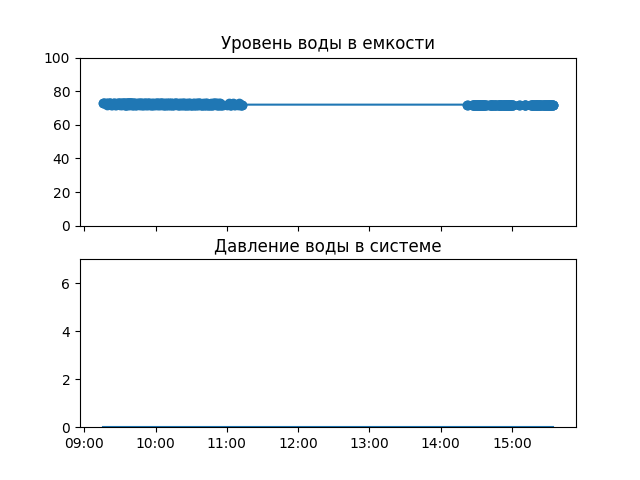
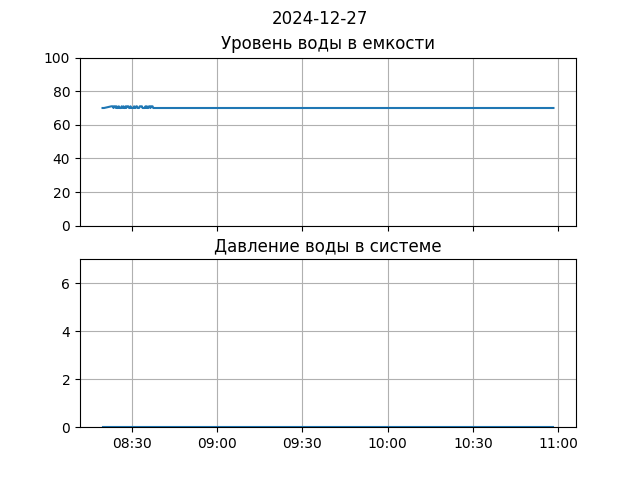
допилен базовый функционал

diff --git a/handlers.py b/handlers.py
@@ -1,13 +1,14 @@
 from datetime import date, datetime, timedelta
 
 from aiogram.types import CallbackQuery, Message
-from aiogram_dialog import ChatEvent, DialogManager
+from aiogram_dialog import DialogManager
 from aiogram_dialog.widgets.kbd import ManagedCalendar
 from sqlalchemy import func, select
 from sqlalchemy.ext.asyncio.session import AsyncSession
 
 from config import settings
 from db.models import Pressure, PumpCondition, User, WaterLevel
+from db.repo import get_by_date, get_last
 from service.plots import plot_archive_levels, plot_current_level
 from states import MainSG
 
@@ -24,18 +25,15 @@ async def check_passwd(msg: Message, msg_inpt, manager: DialogManager):
 
 async def on_current_level(callback: CallbackQuery, button, manager: DialogManager):
     session: AsyncSession = manager.middleware_data["session"]
-    query = select(WaterLevel).order_by(WaterLevel.id.desc()).limit(1)
-    curr_level = await session.scalar(query)
+    curr_level = await get_last(session, [WaterLevel])
+    curr_level = curr_level[0]
 
     if not curr_level or curr_level.dttm < datetime.now() - timedelta(minutes=5):
         await callback.answer("Нет свежих данных", show_alert=True)
         return
 
     if 100 >= curr_level.value >= 0:
-        query = select(PumpCondition).order_by(PumpCondition.id.desc()).limit(1)
-        pump_condition = await session.scalar(query)
-        query = select(Pressure).order_by(Pressure.id.desc()).limit(1)
-        pressure = await session.scalar(query)
+        pump_condition, pressure = await get_last(session, [PumpCondition, Pressure])
 
         plot_current_level(
             level=curr_level.value,
@@ -55,16 +53,10 @@ async def on_date_clicked(
     /,
 ):
     session: AsyncSession = manager.middleware_data["session"]
-    query = select(WaterLevel).where(func.date(WaterLevel.dttm) == clicked_date.isoformat())
-    levels = await session.scalars(query)
-    levels = levels.all()
-    query = select(Pressure).where(func.date(Pressure.dttm) == clicked_date.isoformat())
-    pressures = await session.scalars(query)
-    pressures = pressures.all()
+    levels, pressures = await get_by_date(session, clicked_date, [WaterLevel, Pressure])
 
     if levels or pressures:
         plot_archive_levels(levels, pressures, clicked_date)
         await manager.switch_to(MainSG.archive)
     else:
-        await callback.answer('Данных нет', show_alert=True)
-    
+        await callback.answer("Данных нет", show_alert=True)

diff --git a/custom/babel_calendar.py b/custom/babel_calendar.py
@@ -13,54 +13,6 @@ from aiogram_dialog.widgets.kbd.calendar_kbd import (
 from aiogram_dialog.widgets.text import Format, Text
 from babel.dates import get_day_names, get_month_names
 
-# class RuWeekDay(Text):
-#     def __init__(self, locale):
-#         super().__init__()
-#         self.locale = locale
-
-#     async def _render_text(self, data, manager: DialogManager) -> str:
-#         selected_date: date = data["date"]
-#         return get_day_names(width="short", context="stand-alone", locale=self.locale)[
-#             selected_date.weekday()
-#         ].title()
-
-
-# class RuMonth(Text):
-#     def __init__(self, locale):
-#         super().__init__()
-#         self.locale = locale
-
-#     async def _render_text(self, data, manager: DialogManager) -> str:
-#         selected_date: date = data["date"]
-#         # print("month", selected_date.month)
-#         return get_month_names("wide", context="stand-alone", locale=self.locale)[
-#             selected_date.month
-#         ].title()
-
-
-# class CustomCalendar(Calendar):
-#     def _init_views(self) -> Dict[CalendarScope, CalendarScopeView]:
-#         return {
-#             CalendarScope.DAYS: CalendarDaysView(
-#                 self._item_callback_data,
-#                 self.config,
-#                 header_text=RuMonth("ru_RU"),
-#                 weekday_text=RuWeekDay("ru_RU"),
-#                 next_month_text=RuMonth("ru_RU") + " >>",
-#                 prev_month_text="<< " + RuMonth("ru_RU"),
-#             ),
-#             CalendarScope.MONTHS: CalendarMonthView(
-#                 self._item_callback_data,
-#                 self.config,
-#                 month_text=RuMonth("ru_RU"),
-#                 this_month_text="[" + RuMonth("ru_RU") + "]",
-#             ),
-#             CalendarScope.YEARS: CalendarYearsView(
-#                 self._item_callback_data,
-#                 self.config,
-#             ),
-#         }
-
 
 SELECTED_DAYS_KEY = "selected_dates"
 

diff --git a/service/plots.py b/service/plots.py
@@ -26,12 +26,12 @@ def plot_current_level(level: int | float, pump: int, pressure: float):
         axes.add_patch(water)
 
     def top_text(axes: Axes, pump: int):
-        s = ""
-        match pump:
-            case 1:
-                s = "работает насос!"
-            case 3:
-                s = "низкое давление!"
+        if not pump:
+            return
+
+        s = "работает насос!"
+        if pump > 1:
+            s += "\nнизкое давление!"
         axes.text(100, 150, s, fontsize=30, color="red")
 
     plt.clf()
@@ -56,17 +56,21 @@ def plot_archive_levels(
     y_levels = np.array([level.value for level in levels])
 
     x_pressures = np.array([pressure.dttm for pressure in pressures])
-    y_pressures = np.array([0 if pressure.value <=0 else pressure.value for pressure in pressures])
+    y_pressures = np.array([
+        0 if pressure.value <= 0 else pressure.value for pressure in pressures
+    ])
 
     fig, axes = plt.subplots(2, 1, sharex=True)
-    fig.suptitle(f"{clicked_date.isoformat}")
-    date_format = mdates.DateFormatter('%H:%M')
+    fig.suptitle(f"{clicked_date.isoformat()}")
+    date_format = mdates.DateFormatter("%H:%M")
     axes[1].xaxis.set_major_formatter(date_format)
     axes[0].set_ylim(0, 100)
     axes[1].set_ylim(0, 7)
-    axes[0].set_title('Уровень воды в емкости')
-    axes[1].set_title('Давление воды в системе')
+    axes[0].set_title("Уровень воды в емкости")
+    axes[1].set_title("Давление воды в системе")
+    axes[0].grid()
+    axes[1].grid()
 
-    axes[0].plot(x_levels, y_levels, marker='.')
+    axes[0].plot(x_levels, y_levels)
     axes[1].plot(x_pressures, y_pressures)
     fig.savefig("media/archive_data.png")

diff --git a/service/jobs.py b/service/jobs.py
@@ -1,15 +1,27 @@
 import logging
 
+from aiogram.client.bot import Bot
 from pymodbus.client import ModbusBaseClient
+from sqlalchemy.ext.asyncio.session import AsyncSession
 from sqlalchemy.orm import sessionmaker
 
 from db.models import Pressure, PumpCondition, WaterLevel
-from service.modbus import poll_registers
+from db.repo import get_last
+from service.notifications import started_pump_notification
+from .modbus import poll_registers
 
 logger = logging.getLogger(__name__)
 
 
-async def poll_and_save(client: ModbusBaseClient, db_pool: sessionmaker):
+async def check_pump(bot: Bot, session: AsyncSession, pump_condition: int):
+    if not pump_condition:
+        return
+    prev_condition = await get_last(session, [PumpCondition])
+    if not prev_condition[0].condition:
+        await started_pump_notification(bot, session)
+
+
+async def poll_and_save(client: ModbusBaseClient, db_pool: sessionmaker, bot: Bot):
     rr = await poll_registers(client, 16384, 5)
     if rr:
         water_level = WaterLevel(value=rr[0])
@@ -21,7 +33,9 @@ async def poll_and_save(client: ModbusBaseClient, db_pool: sessionmaker):
             ),
         )
         pump_condition = PumpCondition(condition=rr[-1])
+
         async with db_pool() as session:
+            await check_pump(bot, session, pump_condition.condition)
             session.add_all([pressure, water_level, pump_condition])
             await session.commit()
     else:

diff --git a/firebot_58.py b/firebot_58.py
@@ -17,7 +17,7 @@ from sqlalchemy.ext.asyncio import async_sessionmaker, create_async_engine
 import dialogs
 from config import settings
 from custom.media_storage import MediaIdStorage
-from jobs import poll_and_save
+from service.jobs import poll_and_save
 from middlewares import DbSessionMiddleware
 from routers import start_router
 from states import MainSG
@@ -39,6 +39,10 @@ async def main():
         settings.modbus.host,
         port=settings.modbus.port,
     )
+    bot = Bot(
+        token=settings.bot_token.get_secret_value(),
+        default=DefaultBotProperties(parse_mode="HTML"),
+    )
     scheduler = AsyncIOScheduler()
     scheduler.start()
     scheduler.add_job(
@@ -46,12 +50,7 @@ async def main():
         trigger="interval",
         seconds=15,
         id="polling",
-        args=[client, db_pool],
-    )
-
-    bot = Bot(
-        token=settings.bot_token.get_secret_value(),
-        default=DefaultBotProperties(parse_mode="HTML"),
+        args=[client, db_pool, bot],
     )
     storage = RedisStorage(
         Redis(),

diff --git a/db/repo.py b/db/repo.py
@@ -1,0 +1,27 @@
+from datetime import date
+from sqlalchemy import func, select
+from sqlalchemy.ext.asyncio import AsyncSession
+
+
+async def get_last(session: AsyncSession, tables: list):
+    result = []
+    for table in tables:
+        query = select(table).order_by(table.id.desc()).limit(1)
+        data = await session.scalar(query)
+        result.append(data)
+    return result
+
+
+async def get_by_date(session: AsyncSession, selected_date: date, models: list):
+    result = []
+    for model in models:
+        query = select(model).where(func.date(model.dttm) == selected_date.isoformat())
+        data = await session.scalars(query)
+        result.append(data.all())
+    return result
+
+
+async def get_all(session: AsyncSession, table):
+    query = select(table)
+    result = await session.scalars(query)
+    return result.all()

diff --git a/service/notifications.py b/service/notifications.py
@@ -1,0 +1,20 @@
+import logging
+from aiogram.client.bot import Bot
+from aiogram.exceptions import TelegramForbiddenError
+from pydantic import ValidationError
+from sqlalchemy.ext.asyncio.session import AsyncSession
+from db.models import User
+from db.repo import get_all
+
+logger = logging.getLogger(__name__)
+
+
+async def started_pump_notification(bot: Bot, session: AsyncSession):
+    users = await get_all(session, User)
+    for user in users:
+        try:
+            await bot.send_message(user.id, "Запущен пожарный насос!")
+        except ValidationError:
+            pass
+        except TelegramForbiddenError as errr:
+            logger.error(f"Ошибка отправки: {str(errr)}")
